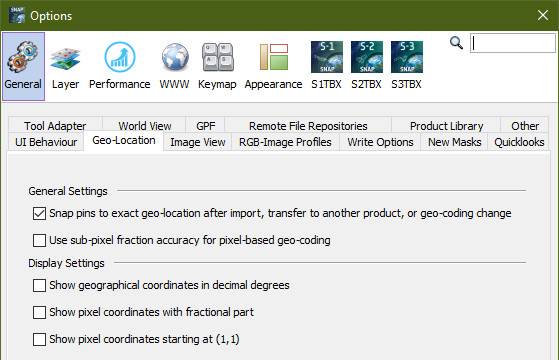
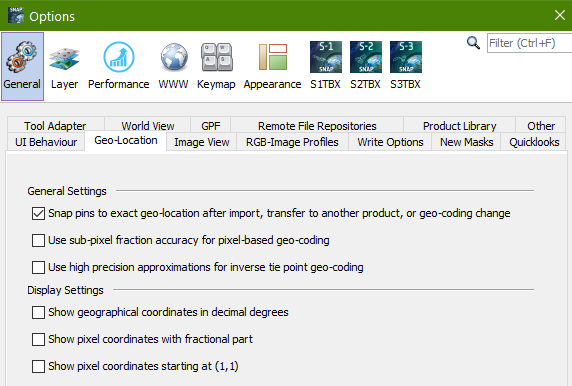
update help for new option

diff --git a/snap-help/src/main/resources/org/esa/snap/snap/help/docs/desktop/OptionsDialog.html b/snap-help/src/main/resources/org/esa/snap/snap/help/docs/desktop/OptionsDialog.html
@@ -93,7 +93,9 @@ at once.
         When geo-coding is pixel-based, a sub-pixel fraction accuracy shall be used (see also "Show pixel coordinates with fractional part" below).
     </li>
     <li><b>Use high precision approximations for inverse tie point geo-coding</b><br>
-        When geo-coding is tie-point based, high precision inverse approxímations are used.
+        When geo-coding is tie-point based, high precision inverse approximations are used. Enabling this option slows
+        down the performance
+        but increases the accuracy a bit further.
     </li>
     <li><b>Show geographical coordinates in decimal degrees</b><br>
         Use decimal degree values instead of minutes and seconds.
